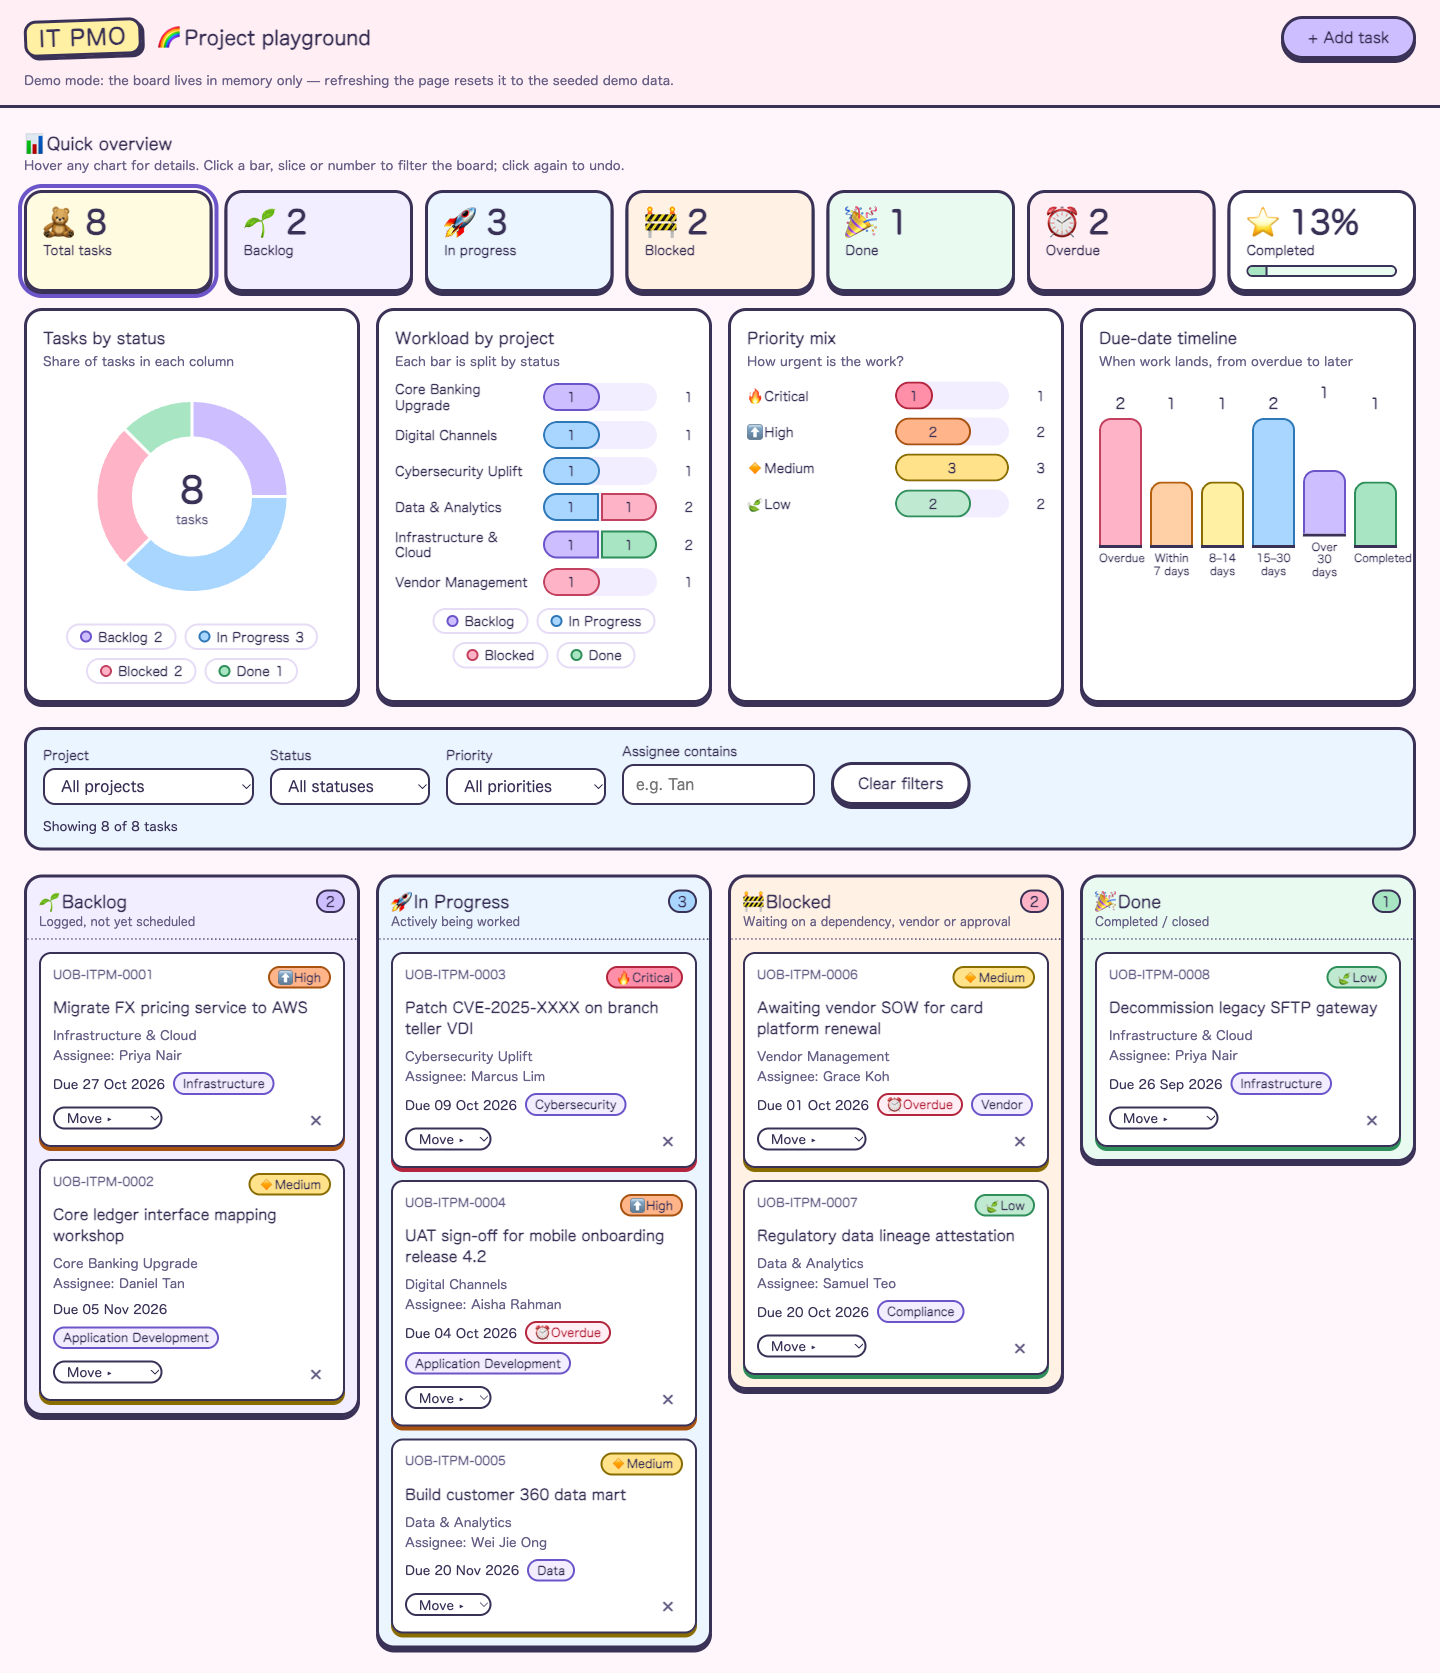
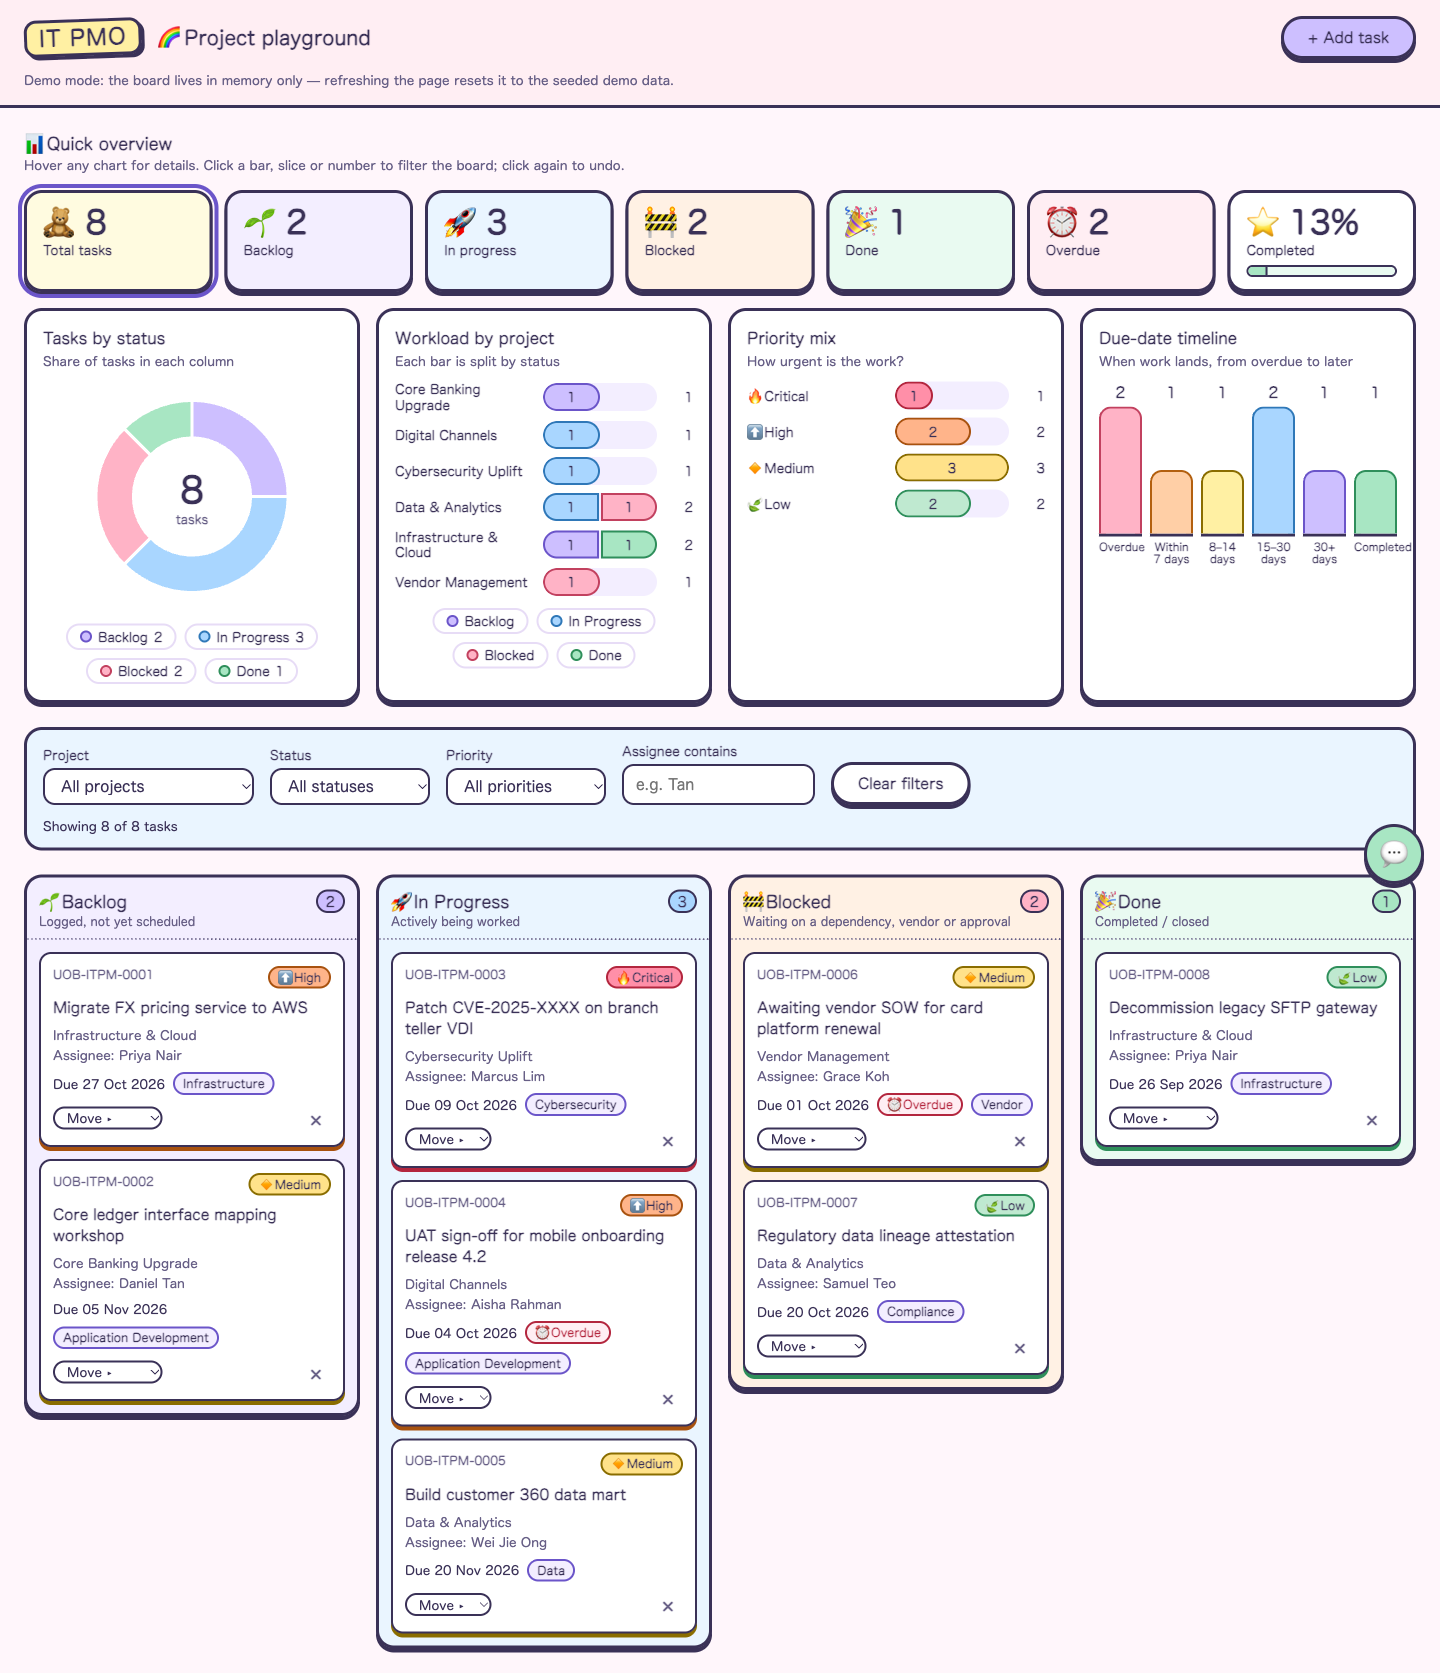
Add briefing reminder popup and WhatsApp chat widget; allow wa.me in CI

diff --git a/index.html b/index.html
@@ -313,7 +313,7 @@ input[aria-invalid="true"], select[aria-invalid="true"], textarea[aria-invalid="
    9. TOASTS
    ========================================================================== */
 .toast-region {
-  position: fixed; right: var(--s-4); bottom: var(--s-4); display: flex; flex-direction: column;
+  position: fixed; right: var(--s-4); bottom: calc(60px + 2 * var(--s-4)); display: flex; flex-direction: column;
   gap: var(--s-2); z-index: 20; max-width: calc(100vw - 2 * var(--s-4));
 }
 .toast {
@@ -322,6 +322,51 @@ input[aria-invalid="true"], select[aria-invalid="true"], textarea[aria-invalid="
 }
 .toast.success { background: var(--mint); }
 .toast.warning { background: var(--butter); }
+
+
+/* ==========================================================================
+   9b. BRIEFING REMINDER POPUP
+   ========================================================================== */
+.briefing-backdrop {
+  position: fixed; inset: 0; background: rgba(58, 49, 87, .5);
+  display: flex; align-items: center; justify-content: center; padding: var(--s-4); z-index: 30;
+}
+.briefing-backdrop[hidden] { display: none; }
+.briefing {
+  background: var(--butter); border: 3px solid var(--ink); border-radius: var(--radius);
+  width: 100%; max-width: 420px; padding: var(--s-5); box-shadow: 0 8px 0 var(--ink);
+}
+.briefing h2 { font-size: 20px; font-weight: 800; margin-bottom: var(--s-3); }
+.briefing p { font-weight: 700; margin-bottom: var(--s-2); }
+.briefing .form-actions { margin-top: var(--s-4); }
+
+
+/* ==========================================================================
+   9c. WHATSAPP CHAT WIDGET
+   ========================================================================== */
+.wa-fab {
+  position: fixed; right: var(--s-4); bottom: var(--s-4); width: 60px; height: 60px; z-index: 15;
+  display: flex; align-items: center; justify-content: center; cursor: pointer;
+  background: var(--mint); border: 3px solid var(--ink); border-radius: 50%; box-shadow: var(--pop);
+  font-size: 28px; line-height: 1; padding: 0;
+}
+.wa-panel {
+  position: fixed; right: var(--s-4); bottom: calc(60px + var(--s-4) + var(--s-3)); z-index: 15;
+  width: 320px; max-width: calc(100vw - 2 * var(--s-4)); max-height: 70vh; overflow-y: auto;
+  background: var(--surface); border: 3px solid var(--ink); border-radius: var(--radius);
+  padding: var(--s-4); box-shadow: 0 6px 0 var(--ink);
+}
+.wa-panel[hidden] { display: none; }
+.wa-head { display: flex; justify-content: space-between; align-items: center; margin-bottom: var(--s-2); }
+.wa-head h2 { font-size: 18px; font-weight: 800; }
+.wa-intro { font-weight: 700; margin-bottom: var(--s-3); }
+.wa-list { display: flex; flex-direction: column; gap: var(--s-2); }
+.wa-query {
+  display: block; text-decoration: none; color: var(--ink); font-weight: 700;
+  background: var(--lav-bg); border: 3px solid var(--ink); border-radius: var(--radius-sm);
+  padding: var(--s-2) var(--s-3);
+}
+.wa-query:hover, .wa-query:focus-visible { background: var(--mint); }
 
 /* ==========================================================================
    10. RESPONSIVE + MOTION
@@ -467,6 +512,28 @@ input[aria-invalid="true"], select[aria-invalid="true"], textarea[aria-invalid="
 </div>
 
 <!-- ============================ TOASTS ============================ -->
+<!-- ========================= BRIEFING REMINDER POPUP ========================= -->
+<div class="briefing-backdrop" id="briefing" hidden>
+  <div class="briefing" role="dialog" aria-modal="true" aria-labelledby="briefing-title">
+    <h2 id="briefing-title">📣 Reminder: IT Project Briefing</h2>
+    <p>🗓 Next Wednesday, 14 Oct 2026</p>
+    <p>🕑 2:00 PM</p>
+    <p>📍 Town Hall Meeting Room</p>
+    <div class="form-actions"><button type="button" class="btn" id="briefing-close">Got it!</button></div>
+  </div>
+</div>
+
+<!-- ============================ WHATSAPP WIDGET ============================ -->
+<button type="button" class="wa-fab" id="wa-fab" aria-label="Chat with IT PMO on WhatsApp" aria-expanded="false" aria-controls="wa-panel">💬</button>
+<div class="wa-panel" id="wa-panel" role="dialog" aria-labelledby="wa-title" hidden>
+  <div class="wa-head">
+    <h2 id="wa-title">💬 IT PMO Assistant</h2>
+    <button type="button" class="icon-btn" id="wa-close" aria-label="Close chat">×</button>
+  </div>
+  <p class="wa-intro">Hi! 👋 Pick a question to ask us on WhatsApp:</p>
+  <div class="wa-list" id="wa-list"></div>
+</div>
+
 <div class="toast-region" id="toasts" aria-live="polite" aria-atomic="false"></div>
 
 <!--
@@ -1294,6 +1361,55 @@ function initModalEvents() {
 }
 
 /* ==========================================================================
+   BRIEFING REMINDER — popup after 10 seconds on the page (static text only)
+   ========================================================================== */
+function initBriefingReminder() {
+  const dlg = document.getElementById("briefing");
+  const close = document.getElementById("briefing-close");
+  function hide() { dlg.hidden = true; }
+  close.addEventListener("click", hide);
+  dlg.addEventListener("click", function (e) { if (e.target === dlg) hide(); });
+  document.addEventListener("keydown", function (e) { if (!dlg.hidden && e.key === "Escape") hide(); });
+  setTimeout(function () { dlg.hidden = false; close.focus(); }, 10000);
+}
+
+/* ==========================================================================
+   WHATSAPP WIDGET HOOK — icon click opens a dialog of suggested IT-project queries
+   ========================================================================== */
+const WHATSAPP_NUMBER = "6512345678";
+const WA_QUERIES = [
+  "📋 What is the status of my IT project?",
+  "⏰ Which IT projects are overdue?",
+  "🔥 Which tasks are high priority this week?",
+  "🆕 How do I request a new IT project?",
+  "📅 When is the next IT Project Briefing?",
+  "👤 Who is the project owner for my project?"
+];
+
+function initWhatsAppWidget() {
+  const fab = document.getElementById("wa-fab");
+  const panel = document.getElementById("wa-panel");
+  const list = document.getElementById("wa-list");
+  WA_QUERIES.forEach(function (q) {
+    const a = document.createElement("a");
+    a.className = "wa-query";
+    a.textContent = q;   // textContent: no HTML injection
+    a.href = "https://wa.me/" + WHATSAPP_NUMBER + "?text=" + encodeURIComponent(q);
+    a.target = "_blank";
+    a.rel = "noopener noreferrer";
+    list.appendChild(a);
+  });
+  function setOpen(open) {
+    panel.hidden = !open;
+    fab.setAttribute("aria-expanded", String(open));
+    if (open) list.firstChild.focus(); else fab.focus();
+  }
+  fab.addEventListener("click", function () { setOpen(panel.hidden); });
+  document.getElementById("wa-close").addEventListener("click", function () { setOpen(false); });
+  document.addEventListener("keydown", function (e) { if (!panel.hidden && e.key === "Escape") setOpen(false); });
+}
+
+/* ==========================================================================
    INIT
    ========================================================================== */
 seedTasks();
@@ -1302,6 +1418,8 @@ initFilters();
 initDashboardEvents();
 initBoardEvents();
 initModalEvents();
+initBriefingReminder();
+initWhatsAppWidget();
 renderBoard();
 </script>
 </body>

diff --git a/README.md b/README.md
@@ -16,6 +16,8 @@ A single-file, kid-friendly Kanban board demo for an IT PMO team at a fictitious
 - Filter by project, status, priority and assignee. The KPI tiles always count all tasks, regardless of filters.
 - Overdue tasks (due date before today and not Done) are highlighted. Seed due dates are relative to today, so overdue examples always exist.
 - Add Task form with validation. Each new task gets an ID like `UOB-ITPM-####` and triggers an email notification through [FormSubmit](https://formsubmit.co). If the email fails, the task is still added and a warning toast is shown.
+- **Briefing reminder:** after 10 seconds on the page a popup announces the IT Project Briefing (Wed 14 Oct 2026, 2:00 PM, Town Hall Meeting Room).
+- **WhatsApp widget:** a floating 💬 button (bottom right) opens a dialog of suggested IT-project questions; each one opens WhatsApp chat with the PMO number with the question prefilled.
 - Delete with an inline "Delete? Yes/No" confirmation.
 
 ## Run locally
@@ -28,7 +30,7 @@ open index.html
 
 - Everything lives in `index.html` (markup, styles, script). There is no build step, bundler or package manager.
 - Nothing is persisted (no localStorage, cookies or IndexedDB). Refreshing the page resets the board to its seed data.
-- The only network call is the FormSubmit AJAX request. Set `FORMSUBMIT_ENDPOINT` at the top of the script to your own endpoint. Prefer FormSubmit's random-string alias over a raw email address, since the page source is public.
+- The only network call is the FormSubmit AJAX request (the WhatsApp suggestions are plain links to `wa.me` that open in a new tab). Set `FORMSUBMIT_ENDPOINT` at the top of the script to your own endpoint. Prefer FormSubmit's random-string alias over a raw email address, since the page source is public.
 
 ## Security
 

diff --git a/CLAUDE.md b/CLAUDE.md
@@ -10,7 +10,7 @@ A single-file IT PMO Kanban board demo for a fictitious bank: everything lives i
 
 - Vanilla HTML/CSS/JS only: no frameworks, bundlers, npm, CDNs, web fonts, or image files. Icons are Unicode/inline SVG; system font stack.
 - No persistence of any kind (no localStorage, sessionStorage, IndexedDB, cookies). Refreshing resets the board to seed data; the header note says so.
-- The only network call is the FormSubmit AJAX endpoint (`FORMSUBMIT_ENDPOINT`, top of the script). The email address must not appear anywhere else.
+- The only network call is the FormSubmit AJAX endpoint (`FORMSUBMIT_ENDPOINT`, top of the script). The WhatsApp widget (`initWhatsAppWidget`, `WHATSAPP_NUMBER`) only builds `https://wa.me/<number>?text=…` links that open in a new tab (navigation, not a fetch); the CI constraint check allows `wa.me`. The email address must not appear anywhere else.
 - CSS uses custom properties for palette/spacing, no `!important`. Visual style (revamped): kid-friendly "sticker" look, pastel palette (each pastel `--x` has a deeper `--x-deep` partner for outlines/non-text marks), 3px plum `--ink` borders, rounded shapes, emoji icons. Colour never carries meaning alone (text/icon accompanies it).
 - Security: a CSP `<meta>` restricts the page to inline script/style and `connect-src https://formsubmit.co`; keep it in sync if the endpoint changes. Never put user strings into `innerHTML`/attributes without `escapeHtml()`; tooltips/toasts use `textContent`; filter specs from chart marks are whitelisted in `applyFilterSpec`; drops only act on the card being dragged.
 
